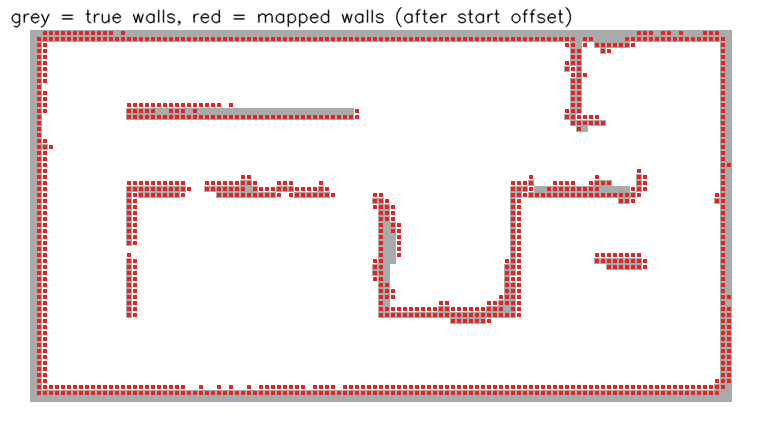
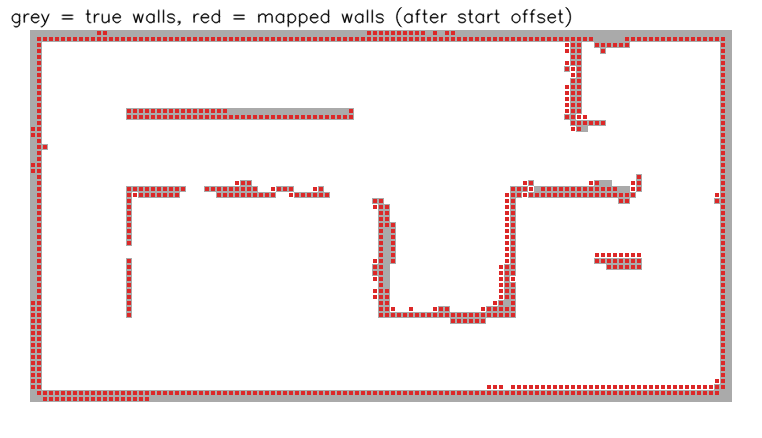
sim: mapping demo on the real stack (laptop_mapping sim:=true), route timeouts, shared macOS lua helper
Claude-Session: https://claude.ai/code/session_01TwjVqtwKjhx7wg3khDuKdH

diff --git a/ros2_ws/src/rdj2026_sim/scripts/route_driver.py b/ros2_ws/src/rdj2026_sim/scripts/route_driver.py
@@ -21,6 +21,8 @@ class RouteDriver(Node):
         self.route = list(zip(flat[0::2], flat[1::2]))
         self.v = float(self.declare_parameter('speed', 0.25).value)
         self.tol = float(self.declare_parameter('tolerance', 0.08).value)
+        self.wp_timeout = float(self.declare_parameter('wp_timeout', 60.0).value)   # s per waypoint, then skip
+        self.wp_t0 = None
         self.i = 0
         self.pose = None
         self.pub = self.create_publisher(Twist, 'cmd_vel', 10)
@@ -37,12 +39,25 @@ class RouteDriver(Node):
         if self.pose is None or self.done:
             return
         x, y, th = self.pose
+        now = self.get_clock().now().nanoseconds * 1e-9
+        if self.wp_t0 is None:
+            self.wp_t0 = now
         gx, gy = self.route[self.i]
+        if now - self.wp_t0 > self.wp_timeout:
+            self.get_logger().warn(f'waypoint {self.i + 1}/{len(self.route)} ({gx:.2f}, {gy:.2f}) TIMEOUT at ({x:.2f}, {y:.2f}) - skipping')
+            self.i += 1
+            self.wp_t0 = now
+            if self.i >= len(self.route):
+                self.pub.publish(Twist())
+                self.get_logger().info('ROUTE DONE')
+                self.done = True
+            return
         dx, dy = gx - x, gy - y
         dist = math.hypot(dx, dy)
         if dist < self.tol:
             self.get_logger().info(f'waypoint {self.i + 1}/{len(self.route)} reached ({gx:.2f}, {gy:.2f})')
             self.i += 1
+            self.wp_t0 = now
             if self.i >= len(self.route):
                 self.pub.publish(Twist())
                 self.get_logger().info('ROUTE DONE')

diff --git a/ros2_ws/src/rdj2026_sim/launch/mapping.launch.py b/ros2_ws/src/rdj2026_sim/launch/mapping.launch.py
@@ -8,10 +8,6 @@ Save when done:
     ros2 run nav2_map_server map_saver_cli -f ~/maps/sim_map
 """
 import os
-import sys
-
-sys.path.insert(0, os.path.dirname(os.path.abspath(__file__)))
-from carto_lua import config_for_platform  # noqa: E402
 
 from ament_index_python.packages import get_package_share_directory
 from launch import LaunchDescription
@@ -19,6 +15,7 @@ from launch.actions import DeclareLaunchArgument
 from launch.conditions import IfCondition
 from launch.substitutions import LaunchConfiguration, PythonExpression
 from launch_ros.actions import Node
+from robot_slam.carto_lua import config_for_platform
 
 
 def generate_launch_description():

diff --git a/ros2_ws/src/robot_slam/robot_slam/stack_common.py b/ros2_ws/src/robot_slam/robot_slam/stack_common.py
@@ -147,6 +147,8 @@ def cartographer(localization=False, pbstream='', use_sim_time=False, initial_po
     opts = opts or {}
     cfg = carto_config_dir(opts)
     basename = 'cartographer_2d_localization.lua' if localization else 'cartographer_2d.lua'
+    from robot_slam.carto_lua import config_for_platform   # macOS only: inlines `include` (RoboStack Lua 5.4 bug)
+    cfg, basename = config_for_platform(cfg, basename)
     args = ['-configuration_directory', cfg, '-configuration_basename', basename]
     if localization:
         args += ['-load_state_filename', pbstream, '-load_frozen_state=true',
